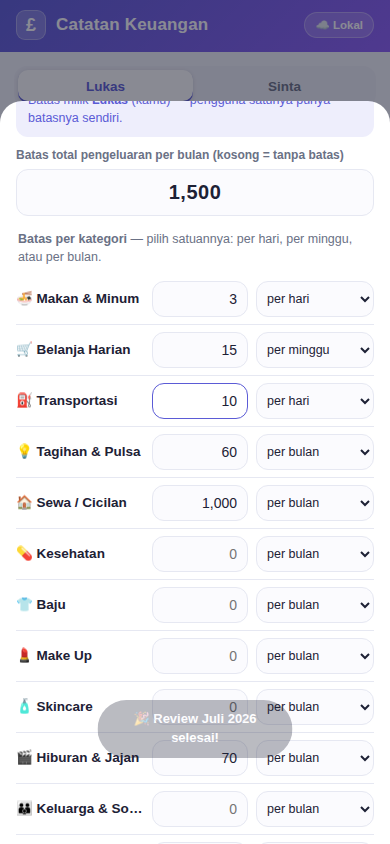
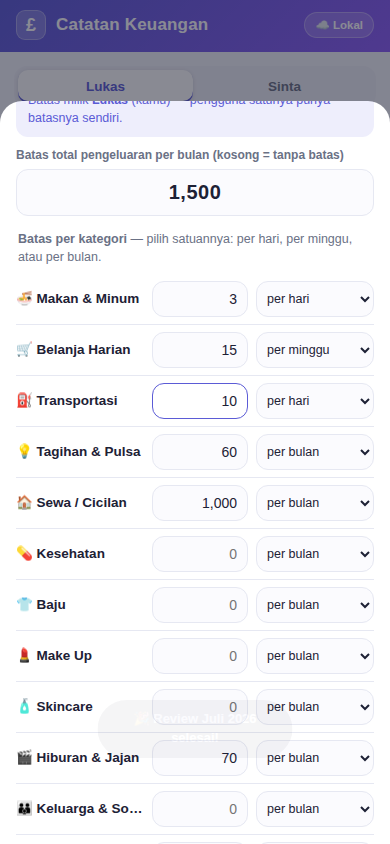
Speed up receipt OCR
Most of the wait was setup, not reading: loading the standard language
model took about 5.9s against 0.6s to actually recognise a receipt, and
the worker was rebuilt and thrown away on every scan.

Now the compact model is used (about 2MB instead of 11MB to download and
roughly six times quicker to initialise) with a checked fallback to the
standard one, the worker is created once and reused for the session,
page segmentation is fixed to a single text block (about 30% faster
recognition), and setup starts in the background as soon as the scan
screen opens. Measured end to end: first scan 2.0s, second 0.8s, with
identical parsing accuracy.

An unavailable model hangs instead of rejecting, so the language path is
probed with a HEAD request first and worker creation carries a timeout.

Claude-Session: https://claude.ai/code/session_014wkPnrCu6CWC52eXcwjijP

Changed region(s): [[0.2462, 0.8318, 0.7692, 0.9242]]

diff --git a/keuangan/index.html b/keuangan/index.html
@@ -1026,7 +1026,11 @@ const ocrPaths=()=>Object.assign({
   lib:'https://cdn.jsdelivr.net/npm/tesseract.js@5.1.1/dist/tesseract.min.js',
   worker:'https://cdn.jsdelivr.net/npm/tesseract.js@5.1.1/dist/worker.min.js',
   core:'https://cdn.jsdelivr.net/npm/tesseract.js-core@5.1.1',
-  lang:'https://tessdata.projectnaptha.com/4.0.0'
+  /* model ringkas: unduhan ±2 MB dan penyiapan ±6x lebih cepat daripada
+     model standar. Bila alamatnya tak tersedia, otomatis jatuh ke model standar. */
+  lang:'https://tessdata.projectnaptha.com/4.0.0_fast',
+  langFallback:'https://tessdata.projectnaptha.com/4.0.0',
+  gzip:true
 }, window.OCR_PATHS||{});
 
 /* --- penguraian teks struk (fungsi murni, bisa diuji terpisah) --- */
@@ -1091,22 +1095,71 @@ function guessCat(name){
   return S.categories.some(c=>c.id==='belanja')?'belanja':(S.categories.find(c=>c.type==='out')||{}).id||'';
 }
 
-/* --- OCR --- */
-async function runOCR(dataUrl, onProgress){
-  const P=ocrPaths();
-  if(!window.Tesseract) await loadScript(P.lib);
-  onProgress('Menyiapkan pembaca teks…',5);
-  const worker=await Tesseract.createWorker('eng',1,{
-    workerPath:P.worker, corePath:P.core, langPath:P.lang,
-    logger:m=>{
-      if(m.status==='recognizing text') onProgress('Membaca struk…', 30+Math.round((m.progress||0)*65));
-      else if(/loading|initializ|download/i.test(m.status||'')) onProgress('Mengunduh mesin OCR (sekali saja)…', 5+Math.round((m.progress||0)*25));
-    }
+/* --- OCR ---
+   Mesin OCR dibuat SEKALI lalu dipakai ulang selama sesi. Penyiapannya
+   memakan waktu jauh lebih lama daripada pembacaannya sendiri, jadi
+   sekali dibuat, scan berikutnya terasa langsung. */
+let OCR_WORKER=null, OCR_MAKING=null, OCR_PROGRESS=null;
+function ocrReport(m){
+  if(!OCR_PROGRESS) return;
+  if(m.status==='recognizing text') OCR_PROGRESS('Membaca struk…', 45+Math.round((m.progress||0)*50));
+  else if(/loading|initializ|download/i.test(m.status||'')) OCR_PROGRESS('Menyiapkan mesin OCR (sekali saja)…', 8+Math.round((m.progress||0)*35));
+}
+/* Model yang tidak tersedia membuat pembuatan worker menggantung, bukan
+   melempar error. Karena itu alamat model dicek lebih dulu, dan pembuatan
+   worker diberi batas waktu supaya tidak menunggu selamanya. */
+function headOk(url, ms=6000){
+  return new Promise(res=>{
+    let done=false;
+    const ac=typeof AbortController!=='undefined'?new AbortController():null;
+    const t=setTimeout(()=>{ if(!done){ done=true; if(ac)ac.abort(); res(false); } }, ms);
+    fetch(url,{method:'HEAD', signal:ac?ac.signal:undefined})
+      .then(r=>{ if(!done){ done=true; clearTimeout(t); res(!!r.ok); } })
+      .catch(()=>{ if(!done){ done=true; clearTimeout(t); res(false); } });
   });
+}
+async function pickLangPath(P){
+  const file='/eng.traineddata'+(P.gzip!==false?'.gz':'');
+  for(const lp of [P.lang, P.langFallback].filter(Boolean)){
+    if(await headOk(String(lp).replace(/\/+$/,'')+file)) return lp;
+  }
+  return P.langFallback||P.lang;                 // upaya terakhir, biarkan Tesseract mencoba
+}
+async function ocrWorker(){
+  if(OCR_WORKER) return OCR_WORKER;
+  if(OCR_MAKING) return OCR_MAKING;
+  OCR_MAKING=(async()=>{
+    const P=ocrPaths();
+    if(!window.Tesseract) await loadScript(P.lib);
+    const langPath=await pickLangPath(P);
+    const w=await Promise.race([
+      Tesseract.createWorker('eng',1,{workerPath:P.worker, corePath:P.core, langPath, gzip:P.gzip!==false, logger:ocrReport}),
+      new Promise((_,rej)=>setTimeout(()=>rej(new Error('penyiapan terlalu lama, periksa koneksi')),120000))
+    ]);
+    // struk = satu kolom teks; melewati analisis tata letak mempercepat ±30%
+    await w.setParameters({tessedit_pageseg_mode:'6'});
+    OCR_WORKER=w;
+    return w;
+  })();
+  try{ return await OCR_MAKING; }
+  finally{ OCR_MAKING=null; }
+}
+function ocrRelease(){                        // bebaskan memori saat aplikasi dikunci
+  const w=OCR_WORKER; OCR_WORKER=null;
+  if(w) w.terminate().catch(()=>{});
+}
+async function runOCR(dataUrl, onProgress){
+  OCR_PROGRESS=onProgress;
   try{
-    const {data:{text}}=await worker.recognize(dataUrl);
+    onProgress('Menyiapkan pembaca teks…',5);
+    const w=await ocrWorker();
+    onProgress('Membaca struk…',45);
+    const {data:{text}}=await w.recognize(dataUrl);
     return text;
-  } finally { await worker.terminate(); }
+  }catch(e){
+    ocrRelease();                             // supaya percobaan berikutnya mulai bersih
+    throw e;
+  }finally{ OCR_PROGRESS=null; }
 }
 /* perkecil + naikkan kontras supaya teks struk lebih terbaca */
 function prepImage(file){
@@ -1145,6 +1198,10 @@ window.openScan=()=>{
   SCAN.items=[]; SCAN.date=todayStr(); SCAN.note='';
   drawScanStart();
   openModal();
+  // panaskan mesin OCR selagi pengguna memotret, supaya menunggunya tak dobel
+  if(navigator.onLine!==false) ocrWorker().then(()=>{
+    const b=$('#scanWarm'); if(b) b.textContent='⚡ Mesin OCR siap — pembacaan akan cepat.';
+  }).catch(()=>{});
 };
 function drawScanStart(){
   $('#modal').innerHTML=`
@@ -1158,9 +1215,10 @@ function drawScanStart(){
   <div id="scanProg" style="display:none;margin-top:14px">
     <div class="small mut" id="scanMsg">Menyiapkan…</div>
     <div class="bar" style="margin-top:6px"><i id="scanBar" style="width:0%"></i></div>
-    <div class="tiny mut" style="margin-top:6px">Pembacaan pertama mengunduh mesin OCR sekali (butuh internet), setelah itu tersimpan di HP.</div>
+    <div class="tiny mut" style="margin-top:6px">Pembacaan pertama mengunduh mesin OCR sekali, sekitar 2 MB (butuh internet). Setelah itu tersimpan di HP dan scan berikutnya jauh lebih cepat.</div>
   </div>
-  <div class="tiny mut" style="margin-top:12px">Tips foto: struk diletakkan datar, cahaya cukup, dan seluruh tulisan masuk ke dalam bingkai.</div>`;
+  <div id="scanWarm" class="tiny mut" style="margin-top:12px">⏳ Menyiapkan mesin OCR di latar belakang…</div>
+  <div class="tiny mut" style="margin-top:6px">Tips foto: struk diletakkan datar, cahaya cukup, dan seluruh tulisan masuk ke dalam bingkai.</div>`;
 }
 function drawScanType(){
   $('#modal').innerHTML=`
@@ -1451,6 +1509,7 @@ window.forgotPin=()=>{
 };
 function lockNow(){
   SESSION.authAs=null;
+  ocrRelease();
   closeModal();
   if(anyPin()) lockScreen();
   else render();

diff --git a/keuangan/PANDUAN_KEUANGAN.md b/keuangan/PANDUAN_KEUANGAN.md
@@ -93,7 +93,9 @@ saja yang kamu beli**.
 1. Tekan **📷 Scan struk** di Beranda (atau tombol yang sama di dalam formulir catat transaksi).
 2. Ambil foto struknya, atau pilih foto yang sudah ada di galeri.
 3. Tunggu sebentar — aplikasi membaca tulisan pada struk. Pembacaan **pertama kali mengunduh mesin
-   OCR sekali saja** (butuh internet); setelah itu tersimpan di HP dan bisa dipakai berulang.
+   OCR sekali saja, sekitar 2 MB** (butuh internet); setelah itu tersimpan di HP dan scan berikutnya
+   jauh lebih cepat karena mesinnya dipakai ulang. Mesin juga mulai disiapkan begitu layar scan
+   dibuka, jadi sebagian waktu tunggu sudah berjalan selagi kamu memotret.
 4. Muncul layar **Tinjau Belanjaan** berisi daftar barang beserta harganya. Baris total, kembalian,
    pajak, dan ucapan terima kasih otomatis dibuang.
 5. **Kategori tiap barang ditebak otomatis** dari namanya — misal *T-Shirt Cotton* → Baju,
